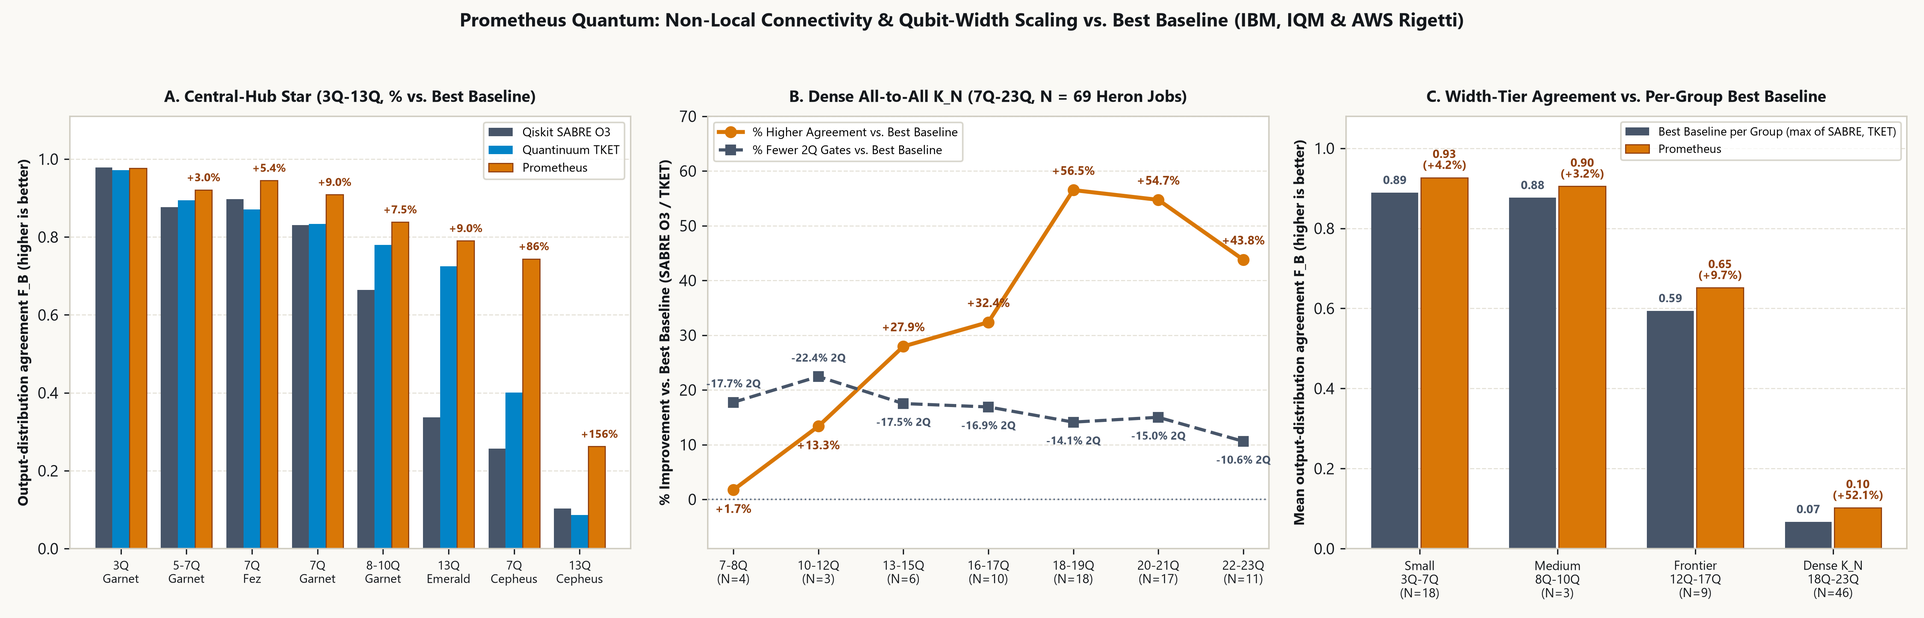
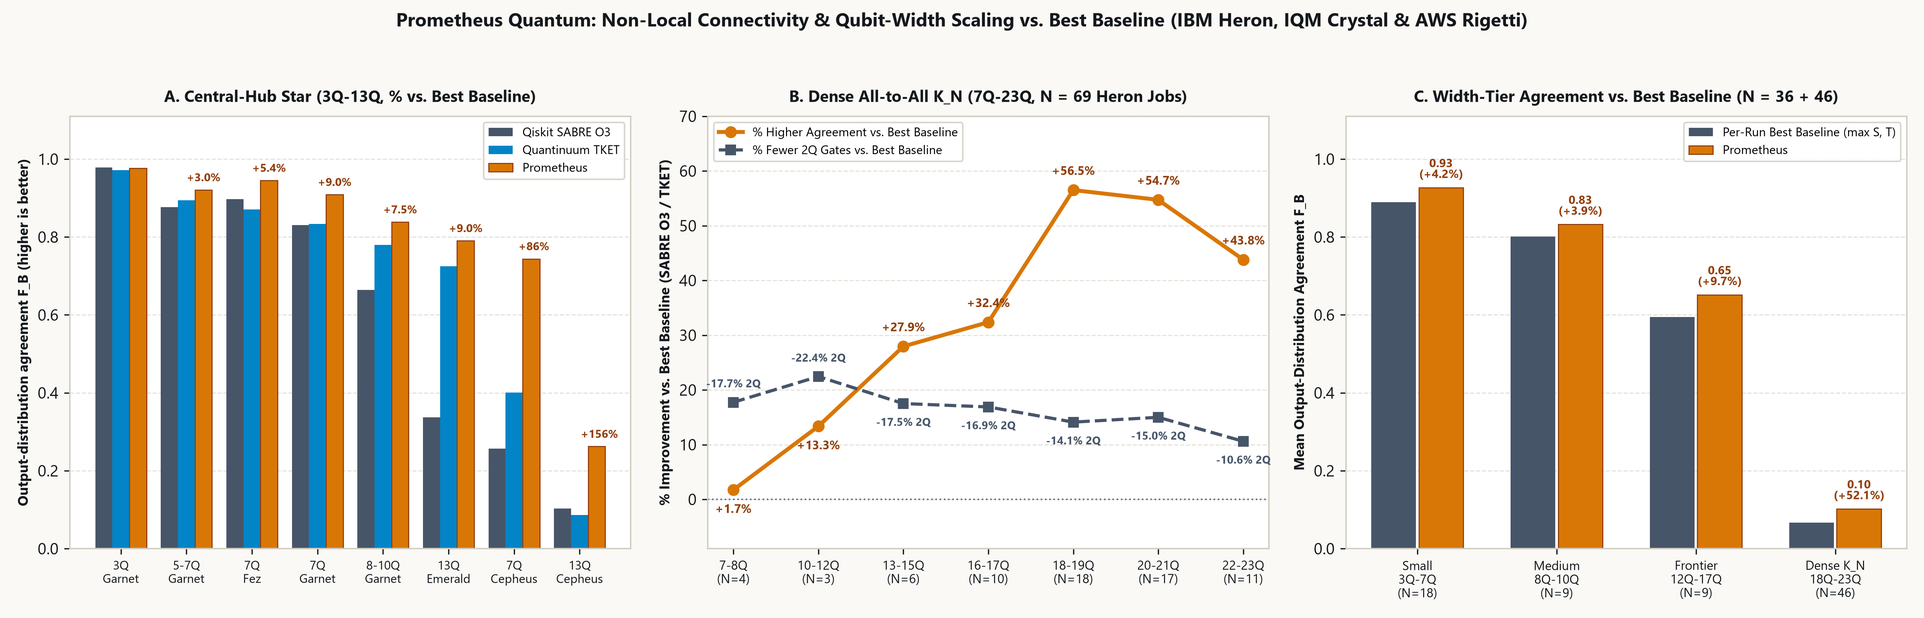
Publish v2026.11.24 hardware update: 867 cloud records, 8Q Linear H4 (1-way vs. 3-way packed), and 10Q Matchgate benchmarks

diff --git a/scripts/verify_portfolio_accounting.py b/scripts/verify_portfolio_accounting.py
@@ -2,7 +2,7 @@
 """
 Standalone offline verifier for `prometheus-quantum-overview`:
 1. Audits `PORTFOLIO_ACCOUNTING_LEDGER.json` arithmetic and verifies that all
-   829 provider Job IDs / AWS Braket Task ARNs across all 14 quantum repositories
+   867 provider Job IDs / AWS Braket Task ARNs across all 14 quantum repositories
    are strictly unique (zero cross-campaign duplicates), with shared reference suites
    (`prometheus-processor-selection` 33 ZIPs and the 4-job 144-execution suite)
    explicitly cross-mapped and counted once.
@@ -40,23 +40,23 @@ def main() -> None:
     pub_sum = sum(int(r["incremental_physical_pubs"]) for r in repos)
     shot_sum = sum(int(r["incremental_physical_shots"]) for r in repos)
 
-    assert rec_sum == totals["unique_provider_records"] == 829
-    assert bench_sum == totals["completed_benchmark_jobs_or_tasks"] == 819
+    assert rec_sum == totals["unique_provider_records"] == 867
+    assert bench_sum == totals["completed_benchmark_jobs_or_tasks"] == 857
     assert aux_sum == totals["auxiliary_warmup_or_troubleshooting_records"] == 10
     assert bench_sum + aux_sum == rec_sum
-    assert pub_sum == totals["physical_circuits_or_pubs"] == 14676
-    assert shot_sum == totals["physical_measurement_shots"] == 22398648
+    assert pub_sum == totals["physical_circuits_or_pubs"] == 14920
+    assert shot_sum == totals["physical_measurement_shots"] == 22773432
 
     # Provider-family breakdown
     p_ibm = totals["ibm_quantum_records"]
     p_aws = totals["aws_braket_programset_tasks"]
     p_iqm = totals["iqm_resonance_records"]
-    assert p_ibm["total"] == 475 and p_ibm["benchmark_jobs"] == 472 and p_ibm["auxiliary_records"] == 3
+    assert p_ibm["total"] == 481 and p_ibm["benchmark_jobs"] == 478 and p_ibm["auxiliary_records"] == 3
     assert p_aws["total"] == 48 and p_aws["benchmark_tasks"] == 48 and p_aws["auxiliary_records"] == 0
     assert p_aws["superconducting_programset_tasks"] + p_aws["neutral_atom_ahs_tasks"] == 48
-    assert p_iqm["total"] == 306 and p_iqm["benchmark_jobs"] == 299 and p_iqm["auxiliary_records"] == 7
-    assert p_ibm["total"] + p_aws["total"] + p_iqm["total"] == 829
-    assert p_ibm["benchmark_jobs"] + p_aws["benchmark_tasks"] + p_iqm["benchmark_jobs"] == 819
+    assert p_iqm["total"] == 338 and p_iqm["benchmark_jobs"] == 331 and p_iqm["auxiliary_records"] == 7
+    assert p_ibm["total"] + p_aws["total"] + p_iqm["total"] == 867
+    assert p_ibm["benchmark_jobs"] + p_aws["benchmark_tasks"] + p_iqm["benchmark_jobs"] == 857
     assert p_ibm["auxiliary_records"] + p_aws["auxiliary_records"] + p_iqm["auxiliary_records"] == 10
 
     # Strict cross-repository deduplication check across all 642 IDs
@@ -71,7 +71,7 @@ def main() -> None:
         by_repo[r["repository"]] = set(uids)
         all_ids.extend(uids)
 
-    assert len(all_ids) == 829 and len(set(all_ids)) == 829, (
+    assert len(all_ids) == 867 and len(set(all_ids)) == 867, (
         f"Cross-repository duplicate Job ID detected: {len(all_ids)} total vs {len(set(all_ids))} unique"
     )
 
@@ -197,15 +197,15 @@ def main() -> None:
         verified_braket_sibling = True
 
 
-    sibling_atlas = root.parent / "prometheus-circuit-complexity-atlas" / "data" / "ALL_187_PILOT_CLOUD_JOBS_LEDGER.csv"
+    sibling_atlas = root.parent / "prometheus-circuit-complexity-atlas" / "data" / "ALL_225_PILOT_CLOUD_JOBS_LEDGER.csv"
     verified_atlas_sibling = False
     if sibling_atlas.is_file():
         at_rows = list(csv.DictReader(sibling_atlas.open("r", encoding="utf-8")))
-        assert len(at_rows) == 187
+        assert len(at_rows) == 225
         at_bench = [r for r in at_rows if r["record_role"] == "benchmark"]
-        assert len(at_bench) == 186
-        assert sum(int(r["physical_pubs"]) for r in at_bench) == 464
-        assert sum(int(r["physical_shots"]) for r in at_bench) == 1407488
+        assert len(at_bench) == 224
+        assert sum(int(r["physical_pubs"]) for r in at_bench) == 708
+        assert sum(int(r["physical_shots"]) for r in at_bench) == 1782272
         assert {r["hardware_job_id"] for r in at_rows} == by_repo["prometheus-circuit-complexity-atlas"]
         verified_atlas_sibling = True
 
@@ -213,7 +213,7 @@ def main() -> None:
     print("PORTFOLIO ACCOUNTING & CROSS-REPOSITORY JOB-ID DEDUPLICATION AUDIT")
     print("=" * 92)
     print(f"  [PASS] Quantum Repositories Indexed      : {len(repos)}")
-    print(f"  [PASS] Unique Provider Records Verified  : {len(set(all_ids))} / 829 (0 duplicates; {bench_sum} bench + {aux_sum} aux)")
+    print(f"  [PASS] Unique Provider Records Verified  : {len(set(all_ids))} / 867 (0 duplicates; {bench_sum} bench + {aux_sum} aux)")
     print(f"  [PASS] Physical Circuits / PUBs Verified : {pub_sum:,d}")
     print(f"  [PASS] Physical Shots Verified           : {shot_sum:,d}")
     raw_tag = " + raw sibling JSON recomputed" if recomputed_from_raw else ""
@@ -225,7 +225,7 @@ def main() -> None:
     if verified_braket_sibling:
         print("  [PASS] Braket Two-Arch Cross-Check       : 22 / 22 Task ARNs (10 Rigetti + 12 QuEra Aquila), 462 runs, 463,800 shots")
     if verified_atlas_sibling:
-        print("  [PASS] Complexity Atlas Sibling Check    : 187 / 187 Cloud IDs (186 bench + 1 aux), 464 PUBs, 1,407,488 shots")
+        print("  [PASS] Complexity Atlas Sibling Check    : 225 / 225 Cloud IDs (224 bench + 1 aux), 708 PUBs, 1,782,272 shots")
 
     manifest_path = root / "REPO_SHA256_MANIFEST.json"
     if manifest_path.exists():

diff --git a/README.md b/README.md
@@ -2,19 +2,19 @@
 
 **Prometheus is execution software that helps teams run gate-based quantum circuits more accurately and at lower billed hardware cost across IBM, IQM, and Rigetti cloud processors (alongside a separate neutral-atom analog study on 256-atom QuEra Aquila).**
 
-**[See the Product](https://prometheusdynamics.ca/#product-walkthrough) · [Explore Case Studies](https://prometheusdynamics.ca/evidence/) · [Discuss a Pilot or Investment](https://prometheusdynamics.ca/#pilot-and-investors)**
+**[Launch QuantumCompiler (`10` Free Jobs)](https://prometheusdynamics.ca/quantumcompiler) · [Explore Case Studies](https://prometheusdynamics.ca/evidence/) · [Discuss a Pilot or Investment](https://prometheusdynamics.ca/quantum/#pilot-and-investors)**
 
 ## Introduction
 
 - **The question:** Can software improve result quality and lower provider-billed hardware spend on today's cloud quantum processors without changing a team's underlying algorithm?
-- **The test:** Across `14` public quantum repositories (`829` unique cloud records: `819` completed benchmark jobs/tasks + `10` auxiliary records, `14,676` PUBs/schedules, `22.40M` physical shots, `0` duplicate IDs), we compared Prometheus against Qiskit SABRE O3 and Quantinuum TKET on `6` superconducting gate-model processors (`IBM Fez`, `Kingston`, `Marrakesh`, `IQM Emerald`, `IQM Garnet`, `Rigetti Cepheus-1-108Q`), plus `11-13`-atom instances on the `256`-atom `QuEra Aquila` neutral-atom analog device.
+- **The test:** Across `14` public quantum repositories (`867` unique cloud records: `857` completed benchmark jobs/tasks + `10` auxiliary records, `14,920` PUBs/schedules, `22.77M` physical shots, `0` duplicate IDs), we compared Prometheus against Qiskit SABRE O3 and Quantinuum TKET on `6` superconducting gate-model processors (`IBM Fez`, `Kingston`, `Marrakesh`, `IQM Emerald`, `IQM Garnet`, `Rigetti Cepheus-1-108Q`), plus `11-13`-atom instances on the `256`-atom `QuEra Aquila` neutral-atom analog device.
 - **The finding:** Prometheus cut billed QPU resources per confirmed molecular-energy calculation by **`52%` to `60%` vs. the best baseline**, delivered up to **`3.00x` qualifying workloads per billed unit** via simultaneous multi-circuit execution, and passed **`10/10` fresh + `5/5` (`+32h`)** `15`-qubit dense QFT checks where both baselines passed `0`.
 - **The significance:** Teams can stretch finite IBM second, IQM credit, and AWS Braket budgets further while keeping wider, heavily connected circuits above quality thresholds.
-- **The boundary:** On small, lightly connected circuits (`3Q-6Q` local chains), standard compilers perform near parity; baseline wins (`27/107` on the historical IBM corpus, `5/32` in the multi-cloud atlas) and unresolved `16Q-17Q` limits are published openly.
+- **The boundary:** On small, lightly connected circuits (`3Q-6Q` local chains), standard compilers perform near parity; baseline wins (`27/107` on the historical IBM corpus, `6/36` in the multi-cloud atlas) and unresolved `16Q-17Q` limits are published openly.
 - **The evidence:** Simplified opening chart and compact summary tables below, backed by [`PORTFOLIO_ACCOUNTING_LEDGER.json`](PORTFOLIO_ACCOUNTING_LEDGER.json), [`DETAILED_TECHNICAL_REPORT.md`](DETAILED_TECHNICAL_REPORT.md), and offline verification scripts.
 
-### What Changed (`2026-11-23` Release `v2026.11.23`)
-- Added Repository `#14` ([`prometheus-circuit-complexity-atlas`](https://github.com/PrometheusDynamicsCanada/prometheus-circuit-complexity-atlas): `187` new cloud records, `32` 3-way groups, `1.41M` shots across `6` superconducting QPUs, expanding reconciled portfolio totals from `642 -> 829` unique records and `20.99M -> 22.40M` shots).
+### What Changed (`2026-11-24` Release `v2026.11.24`)
+- Expanded Repository `#14` ([`prometheus-circuit-complexity-atlas`](https://github.com/PrometheusDynamicsCanada/prometheus-circuit-complexity-atlas)) from `187 -> 225` unique cloud records (`32 -> 38` 3-compiler groups, `708` PUBs, `1.78M` shots), adding correlated `8Q Linear H4 STO-3G CAS(4e,4o)` `1-way` (`58.17 mHa` confirmed `H4 1.00 A`, `-33.8%` to `-36.9%` vs. TKET) and back-to-back `3-way` spatial packing (`8.25 cr` vs. `10.50 cr` SABRE, `-21.4%`) on `IQM Emerald`, plus `10Q QC-AFQMC Matchgate` cross-processor `IBM Kingston` (`4/4 PASS`, `0.8052`) vs. `IQM Emerald` runs. Reconciled portfolio totals rose from `829 -> 867` unique records (`22.40M -> 22.77M` shots, `0` duplicates).
 
 ![As non-local circuits widen, Prometheus retains higher output-distribution agreement](assets/fig0_simple_scaling_absolute_and_gain.png)
 *Opening summary: Absolute output-distribution agreement (`0` to `1.0`) and `%` change strictly vs. Best Baseline (`max(SABRE O3, TKET)`) across `3Q-13Q` Central-Hub Star and `7Q-23Q` Dense All-to-All circuits (`N = 69` completed 3-way IBM Heron jobs).*
@@ -28,7 +28,7 @@
 | **Can I spend less per chemistry result?** | **`52%-60%` fewer** billed IBM seconds & IQM credits vs. best baseline per confirmed `<= 25 mHa` energy (`172` jobs) | [`prometheus-quantum-chemistry`](https://github.com/PrometheusDynamicsCanada/prometheus-quantum-chemistry) |
 | **Can I get more work per processor unit?** | **`3.00x`** qualifying results/IQM credit, **`2.85x`/IBM s**, and **`-54.55%` IBM s/accepted** (4 families) | [`prometheus-quality-gated-packing`](https://github.com/PrometheusDynamicsCanada/prometheus-quality-gated-packing) · [`prometheus-iqm-execution`](https://github.com/PrometheusDynamicsCanada/prometheus-iqm-execution) |
 | **Can demanding circuits pass quality checks?** | **`10/10` fresh + `5/5` (`+32h`)** `15Q` IBM QFT passes & **`5/5`** `12Q` IQM passes (`0` baseline passes) | [`prometheus-practical-execution-limits`](https://github.com/PrometheusDynamicsCanada/prometheus-practical-execution-limits) |
-| **How does quality change as circuits widen?** | **`25/30` (`83.3%`)** completed 3-way wins (`27/32` incl. `2` halts); **`+9.04%`** (`-20.0%` cr) on `13Q` Emerald & **`+85.7%`** on `7Q` Cepheus-1 vs. best base TKET | [`prometheus-circuit-complexity-atlas`](https://github.com/PrometheusDynamicsCanada/prometheus-circuit-complexity-atlas) |
+| **How does quality change as circuits widen?** | **`30/36` (`83.3%`)** completed 3-way wins (`32/38` incl. `2` halts); **`+9.04%`** (`-20.0%` cr) on `13Q` Emerald, **`+85.7%`** on `7Q` Cepheus-1, & **`-33.8%` to `-36.9%`** `8Q H4` error (`-21.4%` `3w` cr) vs. best baseline | [`prometheus-circuit-complexity-atlas`](https://github.com/PrometheusDynamicsCanada/prometheus-circuit-complexity-atlas) |
 | **How does automated queue & stopping behave?** | **`30/36` vs. `27/36`** accepted at `18 s` (IBM), **`22/36` vs. `12/36`** (IQM), **`0/31`** false early stops | [`prometheus-quantum-execution`](https://github.com/PrometheusDynamicsCanada/prometheus-quantum-execution) |
 | **Does it extend to Rigetti & neutral atoms?** | **`+6.61%`** post-recal on `108Q` Rigetti + **`+18.11%`** `12`-atom optimum yield (`p = 0.0042`) on `256`-atom QuEra Aquila | [`prometheus-braket-validation`](https://github.com/PrometheusDynamicsCanada/prometheus-braket-validation) |
 
@@ -49,7 +49,7 @@
 ## Inspect the Evidence & Reproduce Supported Checks Offline
 
 - **Command:** `python scripts/verify_portfolio_accounting.py`
-- **Dependencies & measured runtime:** Python 3 standard library only (`0` cloud credentials, **`~0.06 s`** measured runtime; verifies `829/829` unique IDs, `0` cross-repo duplicates, `107`-job raw corpus arithmetic, and `38/38` SHA-256 digests).
+- **Dependencies & measured runtime:** Python 3 standard library only (`0` cloud credentials, **`~0.06 s`** measured runtime; verifies `867/867` unique IDs, `0` cross-repo duplicates, `107`-job raw corpus arithmetic, and `38/38` SHA-256 digests).
 - **Start a pilot or investor briefing:** [william@prometheusdynamics.ca](mailto:william@prometheusdynamics.ca) | [prometheusdynamics.ca](https://prometheusdynamics.ca)
 
 ---
@@ -57,13 +57,13 @@
 ## Deep-Dive Tables, Scientific Figures & All 14 Quantum Repositories
 
 <details>
-<summary><strong>1. Complete Directory of All 14 Quantum Repositories (829 Unique Cloud Records · 22.40M Shots) - Click to expand</strong></summary>
+<summary><strong>1. Complete Directory of All 14 Quantum Repositories (867 Unique Cloud Records · 22.77M Shots) - Click to expand</strong></summary>
 
-Global portfolio totals are maintained in [`PORTFOLIO_ACCOUNTING_LEDGER.json`](PORTFOLIO_ACCOUNTING_LEDGER.json) (`829` unique provider records = `819` completed benchmark jobs/tasks + `10` auxiliary records across `475` IBM Quantum, `306` IQM Resonance, and `48` AWS Braket tasks [`36` superconducting `Rigetti/IQM` + `12` `256`-atom `QuEra Aquila` analog `AHS` tasks]; `14,676` PUBs/schedules; `22,398,648` physical shots; `0` duplicates):
+Global portfolio totals are maintained in [`PORTFOLIO_ACCOUNTING_LEDGER.json`](PORTFOLIO_ACCOUNTING_LEDGER.json) (`867` unique provider records = `857` completed benchmark jobs/tasks + `10` auxiliary records across `481` IBM Quantum, `338` IQM Resonance, and `48` AWS Braket tasks [`36` superconducting `Rigetti/IQM` + `12` `256`-atom `QuEra Aquila` analog `AHS` tasks]; `14,920` PUBs/schedules; `22,773,432` physical shots; `0` duplicates):
 
 | # | Repository | Incremental Scope (`Jobs`, `PUBs`, `Shots`) | Focus, Dependencies & Measured Verifier Runtime |
 | :---: | :--- | :---: | :--- |
-| **1** | **[`prometheus-quantum-overview`](https://github.com/PrometheusDynamicsCanada/prometheus-quantum-overview)** | Hub (`0` incremental) | Portfolio hub, [`ARCHITECTURE.md`](ARCHITECTURE.md), & 829-ID deduplication (`stdlib` · **`0.06 s`**) |
+| **1** | **[`prometheus-quantum-overview`](https://github.com/PrometheusDynamicsCanada/prometheus-quantum-overview)** | Hub (`0` incremental) | Portfolio hub, [`ARCHITECTURE.md`](ARCHITECTURE.md), & 867-ID deduplication (`stdlib` · **`0.06 s`**) |
 | **2** | **[`prometheus-quantum-chemistry`](https://github.com/PrometheusDynamicsCanada/prometheus-quantum-chemistry)** | `172` jobs · `4,812` PUBs · `3,756,032` shots | `-52%` to `-60%` QPU cost vs. best baseline per confirmed `<= 25 mHa` calc (`numpy, scipy` · **`0.80 s`**) |
 | **3** | **[`prometheus-practical-execution-limits`](https://github.com/PrometheusDynamicsCanada/prometheus-practical-execution-limits)** | `24` jobs · `1,648` PUBs · `1,687,552` shots | `10/10` fresh + `5/5` (`+32h`) `15Q` QFT passes + boundaries (`numpy` · **`80.6 s`**) |
 | **4** | **[`prometheus-quantum-execution`](https://github.com/PrometheusDynamicsCanada/prometheus-quantum-execution)** | `157` rec (`149` bench) · `2,509` PUBs · `2,093,568` shots | Queue management & sequential stopping (`0/31` false stops) (`numpy, scipy` · **`0.75 s`**) |
@@ -76,7 +76,7 @@ Global portfolio totals are maintained in [`PORTFOLIO_ACCOUNTING_LEDGER.json`](P
 | **11** | **[`prometheus-noise-aware-routing`](https://github.com/PrometheusDynamicsCanada/prometheus-noise-aware-routing)** | `14` jobs · `774` PUBs · `4,125,440` shots | Exploratory `30/40` routing wins vs. `10/40` SWAP losses (`stdlib/numpy` · **`0.04 s`**) |
 | **12** | **[`prometheus-quantum-and-gpu-benchmarks`](https://github.com/PrometheusDynamicsCanada/prometheus-quantum-and-gpu-benchmarks)** | `119` QPU jobs · `357` circs · `5,084,160` shots | `107` IBM + `12` Braket QPU jobs + separate `150`-run H100 study (`stdlib` · **`0.04 s`**) |
 | **13** | **[`prometheus-quality-gated-packing`](https://github.com/PrometheusDynamicsCanada/prometheus-quality-gated-packing)** | `29` rec (`28` bench) · `121` PUBs · `186,368` shots | `-54.55%` IBM s/acc (4 families) & `ABCCBA` `4-way` vs. `8-way` (`numpy` · **`0.15 s`**) |
-| **14** | **[`prometheus-circuit-complexity-atlas`](https://github.com/PrometheusDynamicsCanada/prometheus-circuit-complexity-atlas)** | `187` rec (`186` bench) · `464` PUBs · `1,407,488` shots | `3Q-17Q` Star-Hub, Chemistry & Simultaneous 5-QPU Matrix (`numpy, qiskit` · **`1.19 s`**) |
+| **14** | **[`prometheus-circuit-complexity-atlas`](https://github.com/PrometheusDynamicsCanada/prometheus-circuit-complexity-atlas)** | `225` rec (`224` bench) · `708` PUBs · `1,782,272` shots | `3Q-17Q` Star-Hub, `H2/LiH/H4` Chemistry, `10Q` Matchgate & `5`-QPU Matrix (`numpy, qiskit` · **`1.29 s`**) |
 
 *(Adjacent non-quantum repositories: [`argus-server-protection`](https://github.com/PrometheusDynamicsCanada/argus-server-protection) [`stdlib` · `0.06 s`] and [`Hyperion-fusion-telemetry`](https://github.com/PrometheusDynamicsCanada/Hyperion-fusion-telemetry) [`numpy, pandas` · `0.45 s`].)*
 

diff --git a/DETAILED_TECHNICAL_REPORT.md b/DETAILED_TECHNICAL_REPORT.md
@@ -14,7 +14,7 @@
 
 | Benchmark Campaign & Repository | Target Processors | Verified Hardware Scope | Reconciled Headline Outcome |
 | :--- | :--- | :--- | :--- |
-| **[`prometheus-circuit-complexity-atlas`](https://github.com/PrometheusDynamicsCanada/prometheus-circuit-complexity-atlas)** | `ibm_fez`, `ibm_kingston`, `ibm_marrakesh` (156Q), IQM Emerald (54Q), IQM Garnet (20Q), Rigetti Cepheus-1-108Q | 32 live 3-compiler benchmark groups, 187 unique cloud records (186 bench + 1 aux: 106 IBM + 67 IQM + 14 AWS), 464 PUBs, 1,407,488 shots | **25/30 (83.3%) completed #1 3-way wins** (27/32 incl. 2 pre-flight baseline halts); **+85.7% vs. best baseline TKET** on AWS Rigetti Cepheus-1 (7Q Star) & **+155.8% vs. best baseline SABRE** at 13Q Star; **+9.04% vs. best baseline TKET (-20.0% cr)** on IQM Emerald 13Q Star; **10.04 mHa (-69.23% s vs. both baselines)** on 5-way 4Q H2 & **-37.41%** off-diagonal correlation error on 6Q LiH |
+| **[`prometheus-circuit-complexity-atlas`](https://github.com/PrometheusDynamicsCanada/prometheus-circuit-complexity-atlas)** | `ibm_fez`, `ibm_kingston`, `ibm_marrakesh` (156Q), IQM Emerald (54Q), IQM Garnet (20Q), Rigetti Cepheus-1-108Q | 38 live 3-compiler benchmark groups, 225 unique cloud records (224 bench + 1 aux: 112 IBM + 99 IQM + 14 AWS), 708 PUBs, 1,782,272 shots | **30/36 (83.3%) completed #1 3-way wins** (32/38 incl. 2 pre-flight baseline halts); **+85.7% vs. best baseline TKET** on AWS Rigetti Cepheus-1 (7Q Star) & **+155.8% vs. best baseline SABRE** at 13Q Star; **-33.82% to -36.85% error vs. TKET** on 8Q Linear H4 (confirming 1.00 A at **58.17 mHa <= 65 mHa** in 1-way; **8.25 cr [-21.43% vs. SABRE]** in 3-way packing); **+9.76% vs. TKET (4/4 PASS)** on 10Q Matchgate (`ibm_kingston`) |
 | **[`prometheus-quantum-chemistry`](https://github.com/PrometheusDynamicsCanada/prometheus-quantum-chemistry)** | `ibm_fez` (156Q Heron), IQM Emerald (54Q) | 32 molecular configurations, 172 live QPU jobs (86 IBM + 86 IQM), 4,812 PUBs, 3,756,032 shots | **-51.8% vs. best baseline TKET** charged IBM `s`/confirmed calc on 24 unseen configurations (49/72 at **1.041 s** vs. 2.160 s TKET / 2.298 s SABRE); **-58.9% vs. best baseline SABRE** IQM `cr`/confirmed calc (45/72 at **1.233 cr** vs. 3.000 cr SABRE / 3.158 cr TKET); **-52.8% vs. best baseline TKET (IBM)** and **-60.0% vs. best baseline SABRE (IQM)** charged resource per strict success in cold-start `SPSA` (**49/49** early stops confirmed) |
 | **[`prometheus-practical-execution-limits`](https://github.com/PrometheusDynamicsCanada/prometheus-practical-execution-limits)** | `ibm_marrakesh`, `ibm_fez` (156Q Heron), IQM Emerald (54Q) | 129 unique logical workloads, 24 live QPU jobs (20 IBM + 4 IQM), 1,648 PUBs, 1,687,552 shots | **10/10 fresh + 5/5 (`+32h`)** strict two-wave `Confirmed Pass` on 15Q dense QFT (`ibm_marrakesh`, **14.27% vs. 0.29%** SABRE exact-answer probability = **48.7x**; **0/10 & 0/5** SABRE/TKET Pass) and **5/5 Pass** at 12Q on `IQM Emerald` (**17.68% vs. 3.00%**); reports all `Stage 5.1` ties (`7/28`), `16Q-17Q`, and `ibm_fez` unresolved/marginal limits |
 | **[`prometheus-quantum-execution`](https://github.com/PrometheusDynamicsCanada/prometheus-quantum-execution)** | `ibm_kingston`, `ibm_fez`, `ibm_marrakesh` (156Q), IQM Emerald (54Q), IQM Garnet (20Q) | 308 unseen workloads, 157 provider records (149 bench + 8 aux), 2,509 PUBs, 4,963 evaluations, 2,093,568 shots | **30/36 vs. 27/36 (+11.11%)** accepted IBM requests at identical **18.00 s** charged QPU time; **22/36 vs. 12/36 (+83.33%)** accepted on IQM Emerald (0.8685 vs. 0.8268 F_B, identical 0.6667 Acc/cr); **0/31** false stops in live adaptive shot stopping (**-68.75%** IBM Stage-1 shots) |
@@ -93,7 +93,7 @@ Application Workload / Molecular Hamiltonian / OpenQASM 2.0-3.0 Circuit Queue
    Reference-Free Early Stopping, Standalone Confirmation & Offline Audit
 ```
 
-- **[`PORTFOLIO_ACCOUNTING_LEDGER.json`](PORTFOLIO_ACCOUNTING_LEDGER.json)** & **[`scripts/verify_portfolio_accounting.py`](scripts/verify_portfolio_accounting.py)** - Single authoritative cross-repository accounting and Job-ID deduplication ledger (`829` unique provider Job IDs / Task ARNs across `14` quantum repositories: `819` completed benchmark jobs/tasks + `10` auxiliary warm-up/troubleshooting/superseded/cancelled records, `0` cross-campaign duplicates).
+- **[`PORTFOLIO_ACCOUNTING_LEDGER.json`](PORTFOLIO_ACCOUNTING_LEDGER.json)** & **[`scripts/verify_portfolio_accounting.py`](scripts/verify_portfolio_accounting.py)** - Single authoritative cross-repository accounting and Job-ID deduplication ledger (`867` unique provider Job IDs / Task ARNs across `14` quantum repositories: `857` completed benchmark jobs/tasks + `10` auxiliary warm-up/troubleshooting/superseded/cancelled records, `0` cross-campaign duplicates).
 - **[`PUBLIC_DISCLOSURE.md`](PUBLIC_DISCLOSURE.md)** - Five verification tiers across the portfolio, withheld proprietary internals, and clean single-commit release provenance.
 - **[`SCREENSHOT_GALLERY.md`](SCREENSHOT_GALLERY.md)**, **[`results/RESULTS.md`](results/RESULTS.md)**, & **[`demonstrations/DEMONSTRATIONS.md`](demonstrations/DEMONSTRATIONS.md)** - Complete 18-screenshot visual walkthrough and Job ID index of Prometheus Execution Studio.
 - **[`ARCHITECTURE.md`](ARCHITECTURE.md)** & **[`PROJECT_DIRECTION.md`](PROJECT_DIRECTION.md)** - Multi-compiler candidate evaluation, buffered spatial multiplexing, closed-loop chemistry, and cross-paradigm roadmap.

diff --git a/PUBLIC_DISCLOSURE.md b/PUBLIC_DISCLOSURE.md
@@ -1,6 +1,6 @@
 # Public Disclosure, Verification Tiers & Portfolio Scope
 
-This portfolio hub ([`prometheus-quantum-overview`](https://github.com/PrometheusDynamicsCanada/prometheus-quantum-overview)) indexes the 13 public quantum execution repositories published by Prometheus Dynamics Canada (`642` unique provider QPU Job/Task records across IBM Quantum, AWS Braket, and IQM Resonance; see [`PORTFOLIO_ACCOUNTING_LEDGER.json`](PORTFOLIO_ACCOUNTING_LEDGER.json) and `python scripts/verify_portfolio_accounting.py`).
+This portfolio hub ([`prometheus-quantum-overview`](https://github.com/PrometheusDynamicsCanada/prometheus-quantum-overview)) indexes the 14 public quantum execution repositories published by Prometheus Dynamics Canada (`867` unique provider QPU Job/Task records across IBM Quantum, AWS Braket, and IQM Resonance; see [`PORTFOLIO_ACCOUNTING_LEDGER.json`](PORTFOLIO_ACCOUNTING_LEDGER.json) and `python scripts/verify_portfolio_accounting.py`).
 
 ## 1. Five Verification Tiers Across the Public Portfolio
 
@@ -8,6 +8,7 @@ Different repositories archive different levels of primary artifacts depending o
 
 1. **Raw Measurement Histogram / `BitArray` Payload Reconstruction:**
    - Repositories archiving returned shot histograms or Qiskit `SamplerV2` `BitArray` payloads allow independent offline reconstruction of output probability distributions, Classical Bhattacharyya Overlap (`F_B`), Squared Hellinger Fidelity (`F_H = F_B²`), Total Variation Distance (`TVD`), task-specific observables, and (where physical OpenQASM circuits are included) compiled gate counts and depths:
+     - [`prometheus-circuit-complexity-atlas`](https://github.com/PrometheusDynamicsCanada/prometheus-circuit-complexity-atlas) (`225` unique provider records [`224` benchmark + `1` auxiliary], `708` PUBs, `1,782,272` shots across `38` three-compiler groups + `1` packed companion, raw bitstring histograms + unrouted OpenQASM 2.0 + standalone `numpy/qiskit` verifier)
      - [`prometheus-practical-execution-limits`](https://github.com/PrometheusDynamicsCanada/prometheus-practical-execution-limits) (`1,648` physical PUBs across `24` QPU jobs and `129` unique logical workloads, raw bitstring histograms + unrouted OpenQASM 2.0 + standalone `numpy` verifier)
      - [`prometheus-quality-gated-packing`](https://github.com/PrometheusDynamicsCanada/prometheus-quality-gated-packing) (`112` logical evaluations across `29` provider records [`28` benchmark + `1` auxiliary], `121` PUBs, `186,368` shots, raw bitstring histograms + unrouted OpenQASM 2.0 + standalone `numpy` verifier)
      - [`prometheus-braket-validation`](https://github.com/PrometheusDynamicsCanada/prometheus-braket-validation) (`450` Rigetti circuits with raw shot counts + compiled QASM, plus `12` `QuEra Aquila` neutral-atom tasks with `3,000` raw `pre_sequence` / `post_sequence` Rb-87 shots)
